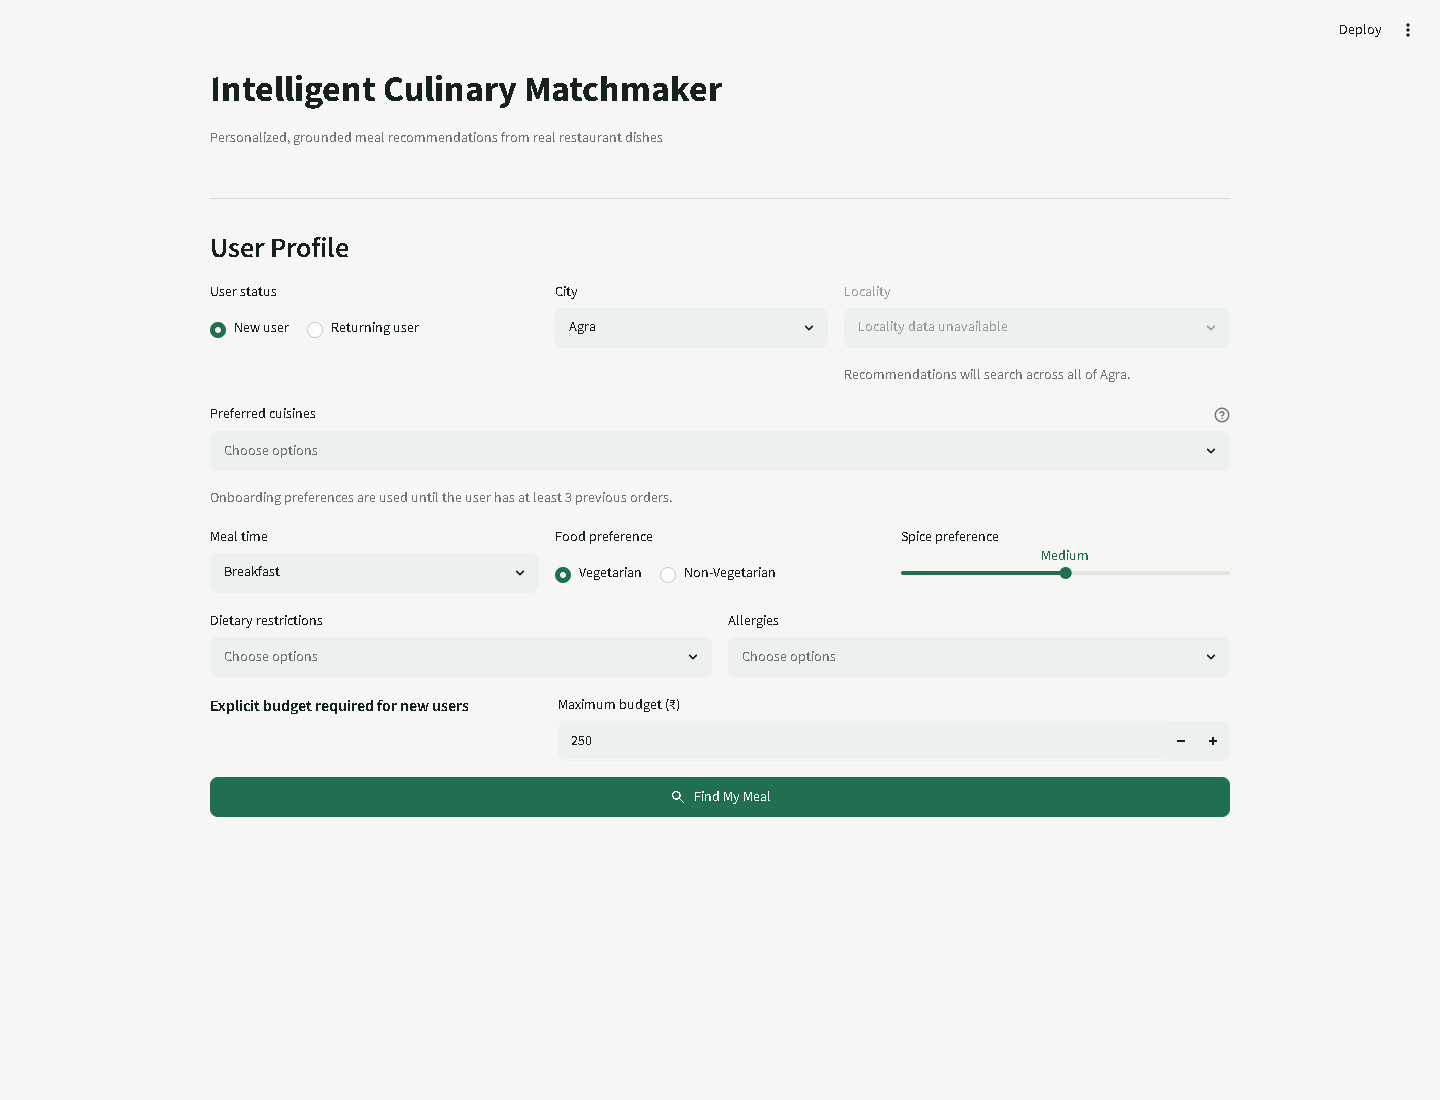
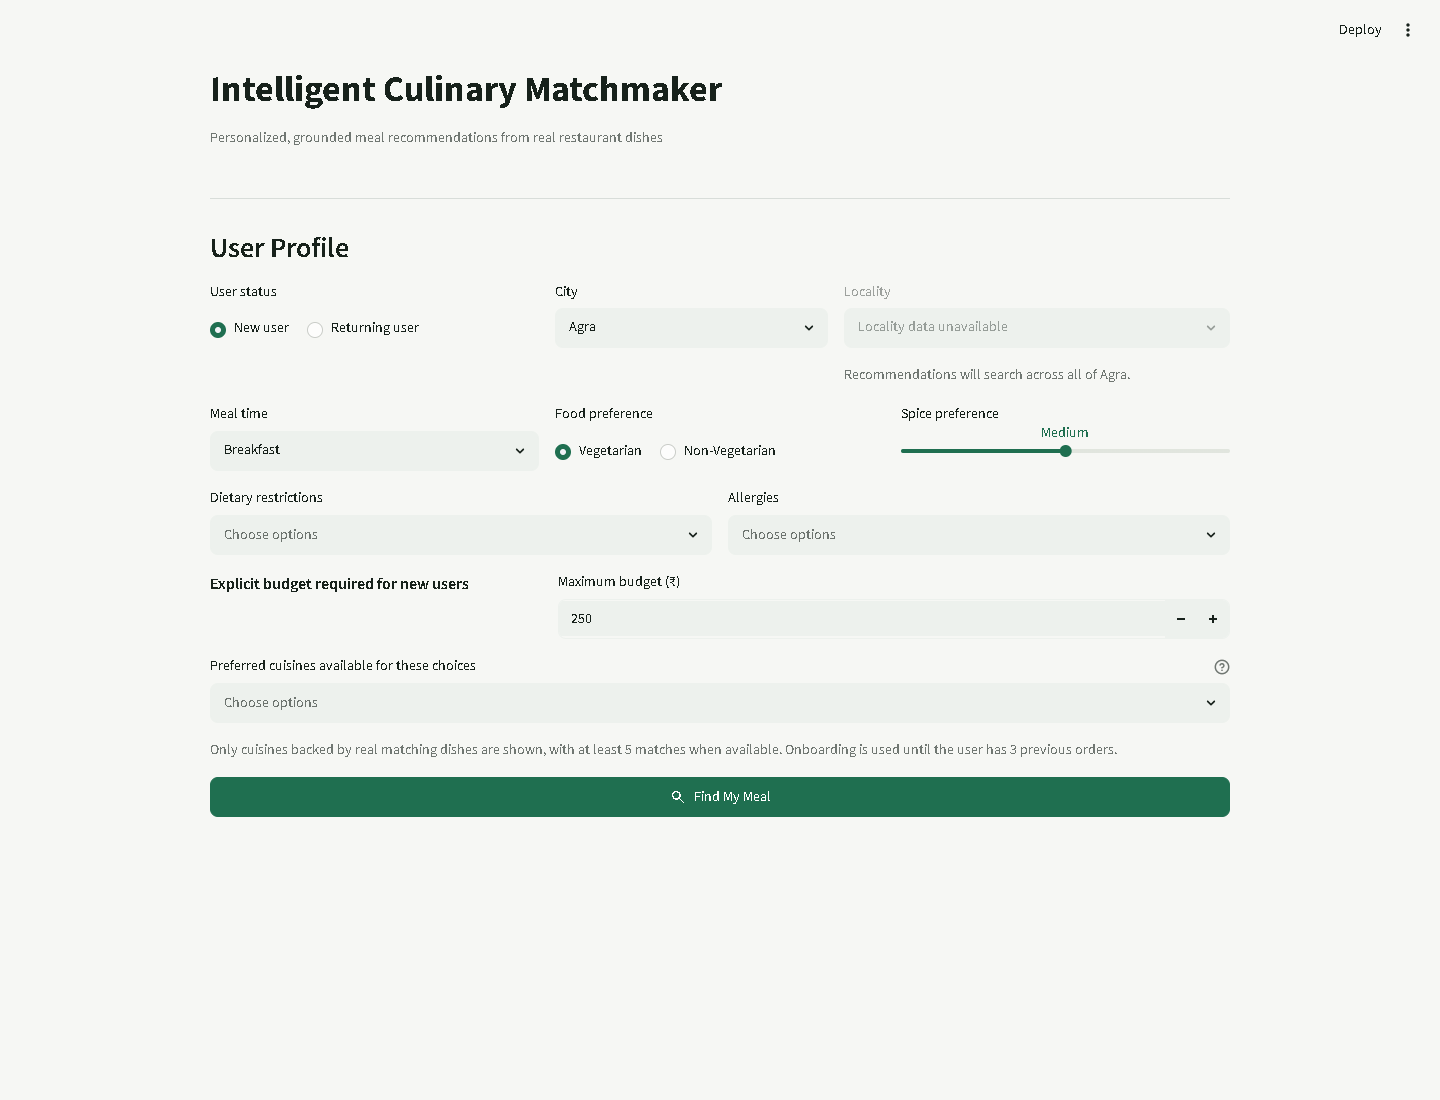
fix: ground cold-start cuisine options in available dishes

diff --git a/app.py b/app.py
@@ -17,7 +17,6 @@ from src.ml_prediction import MINIMUM_HISTORY_ORDERS
 
 HISTORY_PATH = PROJECT_ROOT / "data" / "user_order_history.csv"
 RESTAURANT_PATH = PROJECT_ROOT / "data" / "swiggy_cleaned_sample_expanded.csv"
-TAXONOMY_PATH = PROJECT_ROOT / "data" / "cuisine_taxonomy.csv"
 
 RESTRICTION_OPTIONS = {
     "Lactose intolerant": "Lactose intolerance",
@@ -31,6 +30,9 @@ ALLERGY_OPTIONS = {
     "Egg allergy": "Egg allergy",
     "Soy allergy": "Soy allergy",
 }
+
+MINIMUM_ONBOARDING_DISHES = 5
+MAX_ONBOARDING_CUISINES = 30
 
 
 st.set_page_config(
@@ -77,18 +79,40 @@ def load_order_history():
 
 
 @st.cache_data
-def load_locations():
-    """Load only the two columns needed to draw the location controls."""
+def load_onboarding_dishes():
+    """Load the lightweight columns needed for onboarding controls."""
     return pd.read_csv(
         RESTAURANT_PATH,
-        usecols=["city", "locality"],
+        usecols=["city", "locality", "cuisine", "dish_price", "veg_nonveg"],
         low_memory=False,
     )
 
 
-@st.cache_data
-def load_cuisines():
-    return sorted(pd.read_csv(TAXONOMY_PATH)["cuisine"].dropna().astype(str).unique())
+def available_cuisines(dishes, city, locality, budget, food_preference):
+    """Return cuisines that have at least one dish matching current hard constraints."""
+    dietary_value = "Veg" if food_preference == "Vegetarian" else "Non-veg"
+    candidates = dishes[
+        (dishes["city"] == city)
+        & (dishes["dish_price"] <= budget)
+        & (dishes["veg_nonveg"] == dietary_value)
+    ]
+    if locality:
+        candidates = candidates[candidates["locality"] == locality]
+
+    cuisine_counts = (
+        candidates["cuisine"]
+        .dropna()
+        .astype(str)
+        .str.split(",")
+        .explode()
+        .str.strip()
+        .loc[lambda values: values.ne("")]
+        .value_counts()
+    )
+    robust_cuisines = cuisine_counts[cuisine_counts >= MINIMUM_ONBOARDING_DISHES]
+    if robust_cuisines.empty:
+        robust_cuisines = cuisine_counts
+    return robust_cuisines.head(MAX_ONBOARDING_CUISINES).index.tolist()
 
 
 def most_common(values):
@@ -219,8 +243,7 @@ def display_candidate(candidate):
 
 
 history = load_order_history()
-locations = load_locations()
-cuisine_list = load_cuisines()
+onboarding_dishes = load_onboarding_dishes()
 
 st.title("Intelligent Culinary Matchmaker")
 st.caption("Personalized, grounded meal recommendations from real restaurant dishes")
@@ -234,11 +257,11 @@ with status_column:
         "User status", ["New user", "Returning user"], horizontal=True
     )
 
-city_list = sorted(locations["city"].dropna().astype(str).unique())
+city_list = sorted(onboarding_dishes["city"].dropna().astype(str).unique())
 with city_column:
     city = st.selectbox("City", city_list)
 
-city_rows = locations[locations["city"] == city]
+city_rows = onboarding_dishes[onboarding_dishes["city"] == city]
 locality_list = sorted(
     locality for locality in city_rows["locality"].dropna().astype(str).unique()
     if locality.strip()
@@ -272,18 +295,6 @@ if user_status == "Returning user":
         )
 
 history_eligible = order_count >= MINIMUM_HISTORY_ORDERS
-preferred_cuisines = []
-if not history_eligible:
-    preferred_cuisines = st.multiselect(
-        "Preferred cuisines",
-        cuisine_list,
-        max_selections=3,
-        help="Choose cuisines for cold-start recommendations until enough order history exists.",
-    )
-    st.caption(
-        f"Onboarding preferences are used until the user has at least "
-        f"{MINIMUM_HISTORY_ORDERS} previous orders."
-    )
 
 meal_column, diet_column, spice_column = st.columns(3)
 with meal_column:
@@ -317,8 +328,32 @@ with budget_input:
         step=25, disabled=not use_explicit_budget,
     )
 
+preferred_cuisines = []
+available_onboarding_cuisines = []
+if not history_eligible:
+    available_onboarding_cuisines = available_cuisines(
+        onboarding_dishes, city, locality, float(budget), food_preference
+    )
+    preferred_cuisines = st.multiselect(
+        "Preferred cuisines available for these choices",
+        available_onboarding_cuisines,
+        max_selections=2,
+        help="Choose a primary cuisine and, optionally, one fallback cuisine.",
+    )
+    if available_onboarding_cuisines:
+        st.caption(
+            f"Only cuisines backed by real matching dishes are shown, with at least "
+            f"{MINIMUM_ONBOARDING_DISHES} matches when available. Onboarding is used "
+            f"until the user has {MINIMUM_HISTORY_ORDERS} previous orders."
+        )
+    else:
+        st.warning(
+            "No cuisines have dishes matching this location, food preference, and budget."
+        )
+
 if st.button(
-    "Find My Meal", icon=":material/search:", type="primary", use_container_width=True
+    "Find My Meal", icon=":material/search:", type="primary", use_container_width=True,
+    disabled=not history_eligible and not available_onboarding_cuisines,
 ):
     if "Vegan" in restrictions and food_preference != "Vegetarian":
         st.error("Select Vegetarian when using the Vegan restriction.")

diff --git a/README.md b/README.md
@@ -14,6 +14,7 @@ The project is designed around one important boundary: **the LLM explains recomm
 ## What The System Does
 
 - Supports every new user through preferred-cuisine onboarding.
+- Shows cold-start cuisines only when matching dishes exist for the selected location, diet, and budget.
 - Predicts a returning user's cuisine preference across 82 cuisine/category classes after three orders.
 - Estimates expected order value when the user does not provide a budget.
 - Filters real dishes by city, optional locality, cuisine, budget, and veg/non-veg preference.
@@ -187,7 +188,7 @@ The model-development notebooks are intentionally readable and interview-oriente
 ## Key Engineering Decisions
 
 1. **Hard constraints are deterministic.** Budget, city, locality, and food preference are handled by Pandas rather than inferred by an LLM.
-2. **Cold start is explicit.** New users select cuisines and a budget instead of receiving an unreliable model prediction without history.
+2. **Cold start is explicit and grounded.** New users select cuisines and a budget instead of receiving an unreliable model prediction without history; cuisine options are ranked from matching restaurant rows and normally require at least five available dishes.
 3. **Identity is not predictive.** User IDs group orders but never enter the classifier, allowing behavior to generalize to unseen users.
 4. **Explicit budget wins.** The regressor is used only when a returning user has not supplied a maximum budget.
 5. **Retrieval is confidence-aware.** Exact dish matches are preferred; semantic matches must pass a distance threshold.
